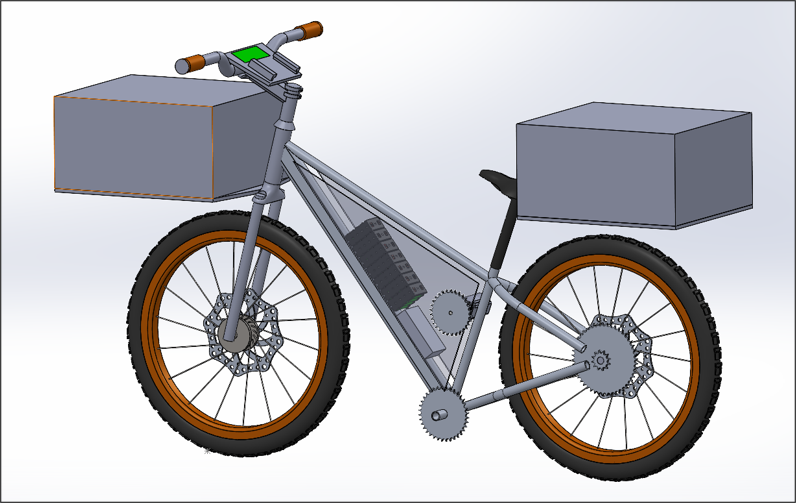
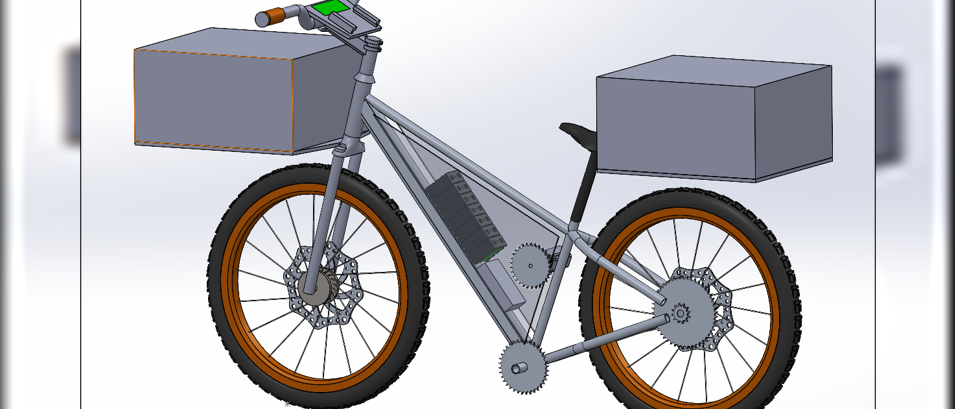
Tag Featured Projects by discipline, reorder detail layout, fix crops
- Assign each of the 12 Featured Projects to one or more of the 4
  filter categories (Mechanical Design, Thermal, Electronics &
  Control, Vehicle Dynamics & Simulation) per the given mapping,
  correcting/extending their tags accordingly.
- projectDetail(): description now comes right after the title, with
  the metric/achievement boxes and category tags combined into one
  wrapping row below it — metrics first (left), tags after. Tags that
  match one of the 4 filter categories get an accent "highlighted"
  style to distinguish them from plain context/other tags.
- Fix 5 cropped hero images (cold-plate-ml, magnesium-wheels,
  best-workplace, pedalthon, rejuvenation-heritage) by widening each
  canvas with a blurred/padded backdrop before the 21:9 crop — the
  three that had text/content near the edges (cold-plate-ml,
  best-workplace, rejuvenation-heritage) use a zero-crop pad instead,
  so nothing is cut off. The old .webp originals are superseded by
  new -wide.jpg files referenced from content.js.

diff --git a/data/content.js b/data/content.js
@@ -305,7 +305,7 @@ window.SITE_CONTENT = {
       org: "Applied Heat Transfer Course Project, UofI",
       context: "Research",
       period: "Jan 2026 – May 2026",
-      image: "assets/img/projects/cold-plate-ml.webp",
+      image: "assets/img/projects/cold-plate-ml-wide.jpg",
       tags: ["Thermal & Energy Systems"],
       summary: "Multi-objective CFD optimization of an EV battery cold plate, sped up with a machine-learned surrogate model.",
       bullets: [
@@ -353,7 +353,7 @@ window.SITE_CONTENT = {
       context: "Research",
       period: "Sep 2025 – Dec 2025",
       image: "assets/img/projects/combustion-lab.jpg",
-      tags: ["Combustion & Powertrain Research"],
+      tags: ["Combustion & Powertrain Research", "Thermal & Energy Systems"],
       summary: "Laser/optical diagnostics to map OH radical temperature and concentration inside small flames.",
       bullets: [
         "Built a UV broadband absorption spectroscopy (BAS) rig around a 310nm LED source, a 1.54m Czerny-Turner spectrometer, and an Andor iDus CCD, wavelength-calibrated against an Hg lamp.",
@@ -420,7 +420,7 @@ window.SITE_CONTENT = {
       period: "Jan 2022 – May 2022",
       image: "assets/img/projects/dorle.png",
       imageFit: "contain",
-      tags: ["Vehicle Dynamics & Simulation", "Electronics & Controls"],
+      tags: ["Vehicle Dynamics & Simulation"],
       summary: "Built a full-vehicle handling model from scratch and used it to validate racing-line optimization and control-system logic.",
       bullets: [
         "Led a 5-person team building a 14-DOF full-vehicle model in MATLAB/Simulink from first-principles equations, split across powertrain/braking, ride, handling, and suspension subsystems.",
@@ -444,7 +444,7 @@ window.SITE_CONTENT = {
       context: "Research",
       period: "Sep 2021 – Nov 2021",
       image: "assets/img/projects/turbojet-nozzle.png",
-      tags: ["Combustion & Powertrain Research"],
+      tags: ["Combustion & Powertrain Research", "Thermal & Energy Systems"],
       summary: "Compressible-flow design study of a supersonic engine intake and nozzle using the Method of Characteristics and CFD.",
       bullets: [
         "Examined the Method of Characteristics for designing shock-free, isentropic supersonic flow nozzles.",
@@ -504,8 +504,8 @@ window.SITE_CONTENT = {
       org: "Innovate'22 Hackathon, Daimler India Commercial Vehicles",
       context: "Competition",
       period: "Aug 2022",
-      image: "assets/img/projects/best-workplace.webp",
-      tags: ["Structures & Composites"],
+      image: "assets/img/projects/best-workplace-wide.jpg",
+      tags: ["Electronics & Controls"],
       summary: "24-hour hackathon redesigning a long-haul truck driver's cabin with drivers and cabin experts.",
       bullets: [
         "Ran a weighted decision matrix across candidate cabin problems (ventilation, fatigue, seating, theft) to prioritize a Noise-Vibration-Harshness (N-V-H) redesign, backed by a driver survey and literature on fatigue-linked accident risk.",
@@ -528,7 +528,7 @@ window.SITE_CONTENT = {
       period: "Mar 2022",
       image: "assets/img/projects/jlr-bonnet.png",
       imageFit: "contain",
-      tags: ["Electronics & Controls"],
+      tags: ["Structures & Composites", "Electronics & Controls", "Vehicle Dynamics & Simulation"],
       summary: "Gold medal-winning actuation system, designed both mathematically and mechanically, to power a car's bonnet.",
       bullets: [
         "Benchmarked existing powered-tailgate mechanisms and selected direct linear actuation over a slider-crank design for fewer parts and lower friction loss, using 2 Ti Motion TA23 linear actuators driven by an Arduino UNO and Cytron motor driver.",
@@ -555,7 +555,7 @@ window.SITE_CONTENT = {
       context: "Competition",
       period: "Mar 2022",
       image: "assets/img/projects/pedalthon.png",
-      tags: ["Structures & Composites"],
+      tags: ["Structures & Composites", "Electronics & Controls"],
       summary: "Designed a commercial electric bicycle from scratch for last-mile deliveries, leading a 5-member team.",
       bullets: [
         "Led 5-member team BLAZZE to design a 141 kg-payload-rated electric cargo bicycle with a tubular Al 6061-T6 space frame, two 57.5 L storage boxes, and a 170 km design range.",
@@ -583,7 +583,7 @@ window.SITE_CONTENT = {
       period: "Mar 2021",
       image: "assets/img/projects/bosch-ev.png",
       imageFit: "contain",
-      tags: ["Vehicle Dynamics & Simulation"],
+      tags: ["Electronics & Controls", "Vehicle Dynamics & Simulation"],
       summary: "Gold medal-winning performance baselining and powertrain design for an electric ultralight commercial vehicle.",
       bullets: [
         "Selected the Ultra-Light Commercial Vehicle (B2B) segment and baselined performance targets (800 kg payload, 300 km range, 75 km/h top speed) from market and use-case analysis.",
@@ -607,8 +607,8 @@ window.SITE_CONTENT = {
       org: "Tech4Heritage Hackathon, Sapio Analytics",
       context: "Competition",
       period: "Sep 2020 – Oct 2020",
-      image: "assets/img/projects/rejuvenation-heritage.webp",
-      tags: ["Data Science & Machine Learning"],
+      image: "assets/img/projects/rejuvenation-heritage-wide.jpg",
+      tags: ["Data Science & Machine Learning", "Vehicle Dynamics & Simulation"],
       summary: "1st-place hackathon project restoring depleted Ajanta and Ellora cave paintings with GAN-based inpainting.",
       bullets: [
         "Curated a training dataset of Indian heritage artwork, standardizing images to 500×500px and synthesizing damage via a custom apply_distortion() function to model realistic patch loss without unrealistic binary (B&W) masks.",
@@ -632,7 +632,7 @@ window.SITE_CONTENT = {
       period: "Aug 2020",
       image: "assets/img/projects/nav-ujjwal.png",
       imageFit: "contain",
-      tags: ["Structures & Composites"],
+      tags: ["Structures & Composites", "Electronics & Controls"],
       summary: "Designed an autonomous drone to transport essentials to differently-abled groups, including its carbon-fiber frame.",
       bullets: [
         "Co-designed an autonomous multi-rotor (Team Excelsior) capable of both no-contact last-mile delivery and indoor autonomous navigation, built around a CFRP-sandwich-panel central pod with 3D-printed arms — 2.3 kg empty, up to 3.5 kg payload, 20–35 min flight time.",

diff --git a/assets/js/main.js b/assets/js/main.js
@@ -268,9 +268,11 @@
       <div class="detail-hero${p.imageFit === "contain" ? " detail-hero-contain" : ""}"><img src="${esc(p.image)}" alt="${esc(p.title)}"${p.heroPosition ? ` style="object-position: ${esc(p.heroPosition)}"` : ""}></div>
       <div class="detail-kicker">${esc(p.period)} · ${esc(p.org)}</div>
       <h2 class="detail-title">${esc(p.title)}</h2>
-      ${metricsRow(p.metrics)}
       <p class="detail-summary">${esc(p.summary)}</p>
-      ${(!filterable && !p.hideTagsRow && (p.tags.length || p.context)) ? `<div class="project-tags">${p.tags.map((t) => `<span class="ptag">${esc(t)}</span>`).join("")}${p.context ? `<span class="ptag">${esc(p.context)}</span>` : ""}</div>` : ""}
+      <div class="project-boxes-row">
+        ${metricsRow(p.metrics)}
+        ${(!filterable && !p.hideTagsRow && (p.tags.length || p.context)) ? `<div class="project-tags">${p.tags.map((t) => `<span class="ptag${PROJECT_FILTER_CATEGORIES.some((c) => c.tag === t) ? " ptag-category" : ""}">${esc(t)}</span>`).join("")}${p.context ? `<span class="ptag">${esc(p.context)}</span>` : ""}</div>` : ""}
+      </div>
     `;
     if (subs.length) {
       const headingText = filterable ? "Disciplines &amp; sub-projects" : "Disciplines &amp; sub-projects — open one for the full detail";

diff --git a/assets/css/style.css b/assets/css/style.css
@@ -423,6 +423,10 @@ button.stat-clickable .stat-label { text-decoration: underline dotted var(--text
 .ptag-filter { cursor: pointer; transition: border-color 0.15s, color 0.15s; }
 .ptag-filter:hover { border-color: var(--accent); color: var(--accent); }
 .ptag-filter.ptag-active { border-color: var(--accent); color: var(--accent); background: rgba(var(--accent-rgb, 220, 90, 60), 0.08); }
+.ptag-category { border-color: var(--accent); color: var(--accent); }
+.project-boxes-row { display: flex; flex-wrap: wrap; align-items: center; gap: 10px 14px; margin-top: 14px; }
+.project-boxes-row .metric-row { margin-top: 0; }
+.project-boxes-row .project-tags { margin: 0; }
 
 .metric-row { display: flex; flex-wrap: wrap; gap: 10px; margin-top: 4px; }
 .metric {
